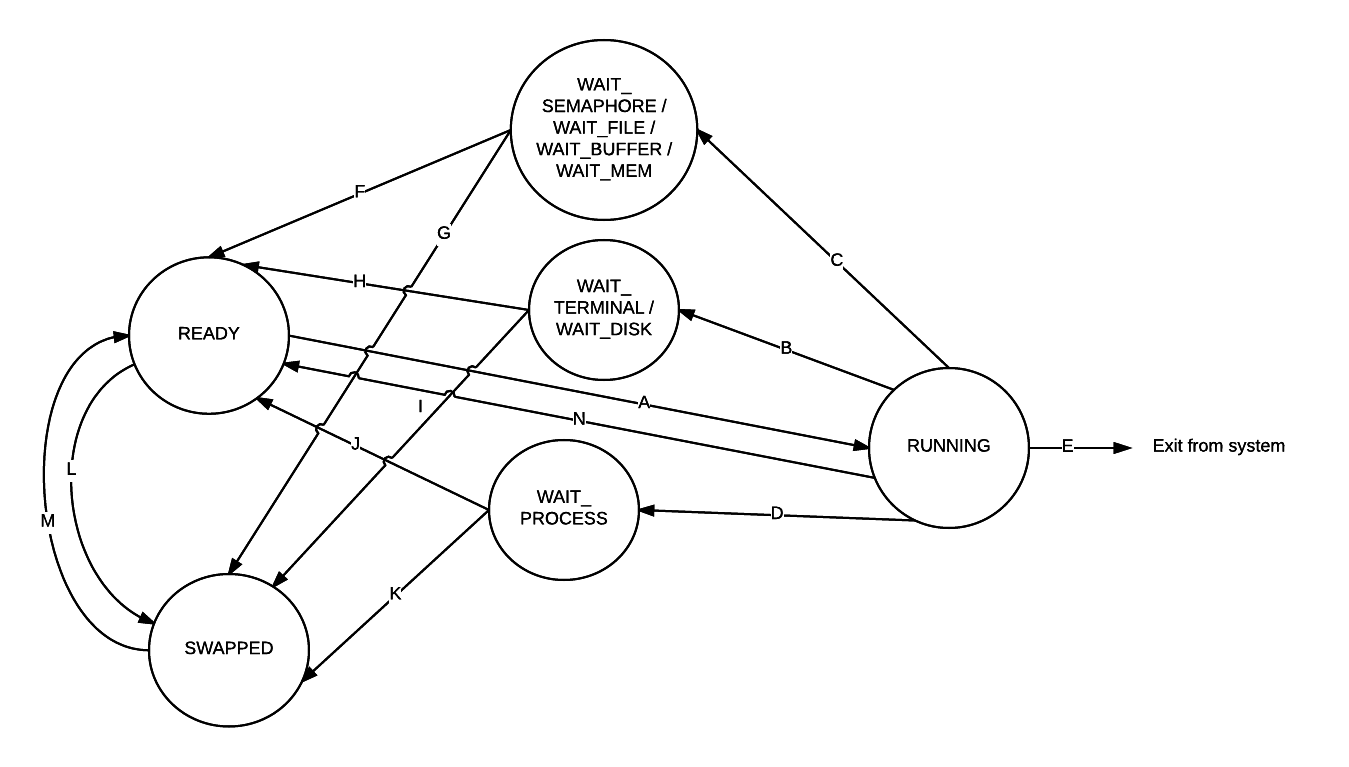
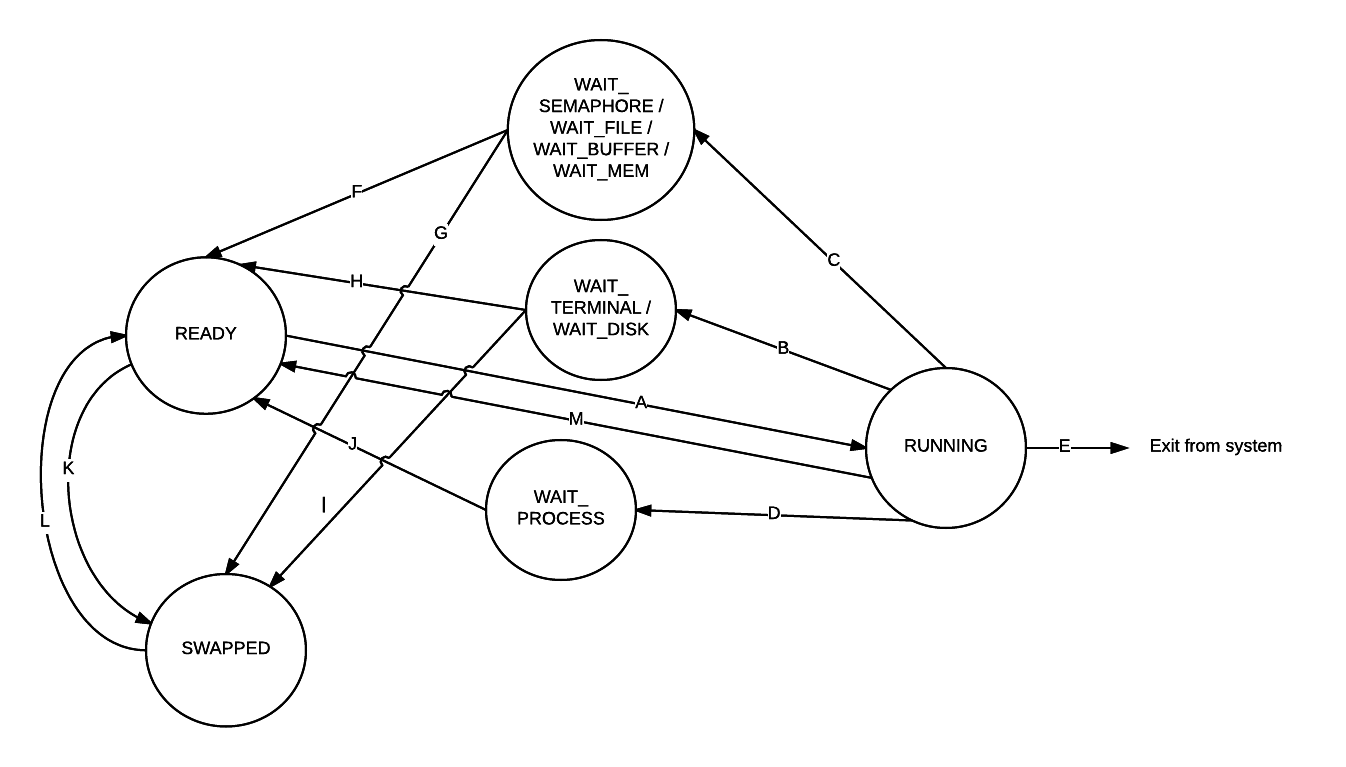
changed state diagram

diff --git a/os_design-files/state_diag.html b/os_design-files/state_diag.html
@@ -153,16 +153,14 @@
                <p style="text-indent: 4em;"><b>J</b></p>
               <p style="text-indent: 6em;">WAIT_PROCESS -> READY : The process has either received a signal from the process it was waiting for or the latter has exited the system.</p>
               
-              <p style="text-indent: 4em;"><b>K</b></p>
-               <p style="text-indent: 6em;">WAIT_PROCESS -> SWAPPED : The current stack page of the process has been swapped out.</p>
-               
-                <p style="text-indent: 4em;"><b>L</b></p>
+                            
+                <p style="text-indent: 4em;"><b>K</b></p>
                <p style="text-indent: 6em;">READY -> SWAPPED : The current stack page of the process has been swapped out.</p>
                
-                <p style="text-indent: 4em;"><b>M</b></p>
+                <p style="text-indent: 4em;"><b>L</b></p>
                <p style="text-indent: 6em;">SWAPPED -> READY : The stack page required by the process to continue execution was swapped in.</p>
                
-               <p style="text-indent: 4em;"><b>N</b></p>
+               <p style="text-indent: 4em;"><b>M</b></p>
                <p style="text-indent: 6em;">RUNNING -> READY : Context switch caused by the timer interrupt routine.<p>
                
          </div>

diff --git a/os_design-files/process_table.html b/os_design-files/process_table.html
@@ -167,7 +167,7 @@
                           <li>(WAIT_BUFFER, BUFFERID) – The process is waiting for disk buffer of index BUFFERID to be unlocked. </li>
                           <li>(WAIT_TERMINAL,___) – The process is waiting for Read from Terminal to be completed.  </li>
                       </ul>
-
+                              <p>Process states and tranisitions can be viewed <a href="state_diag.html">here</a>.</p>
                           </div>
                         </div>
               
